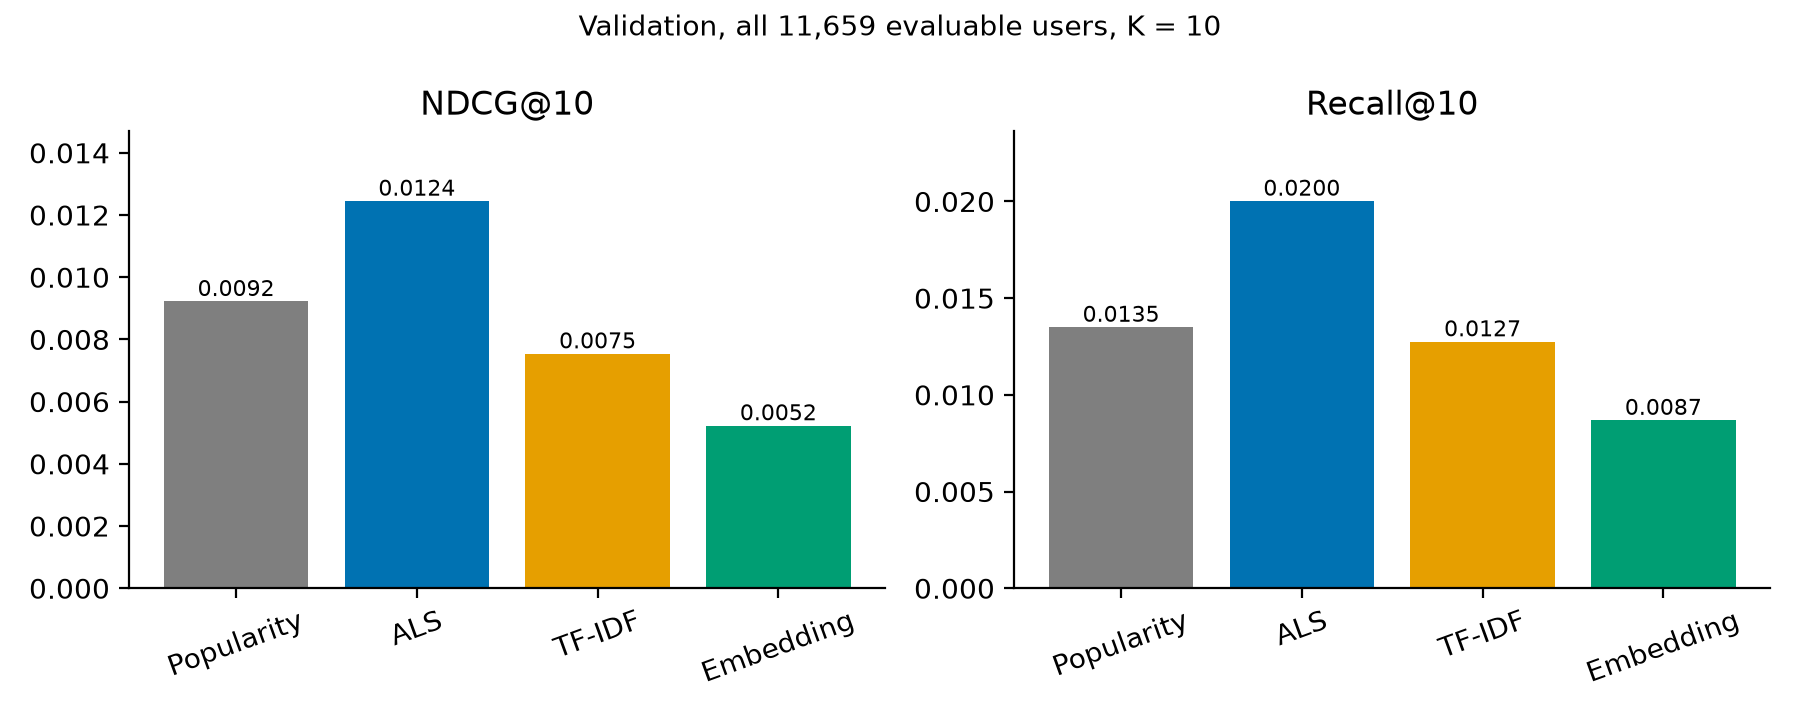
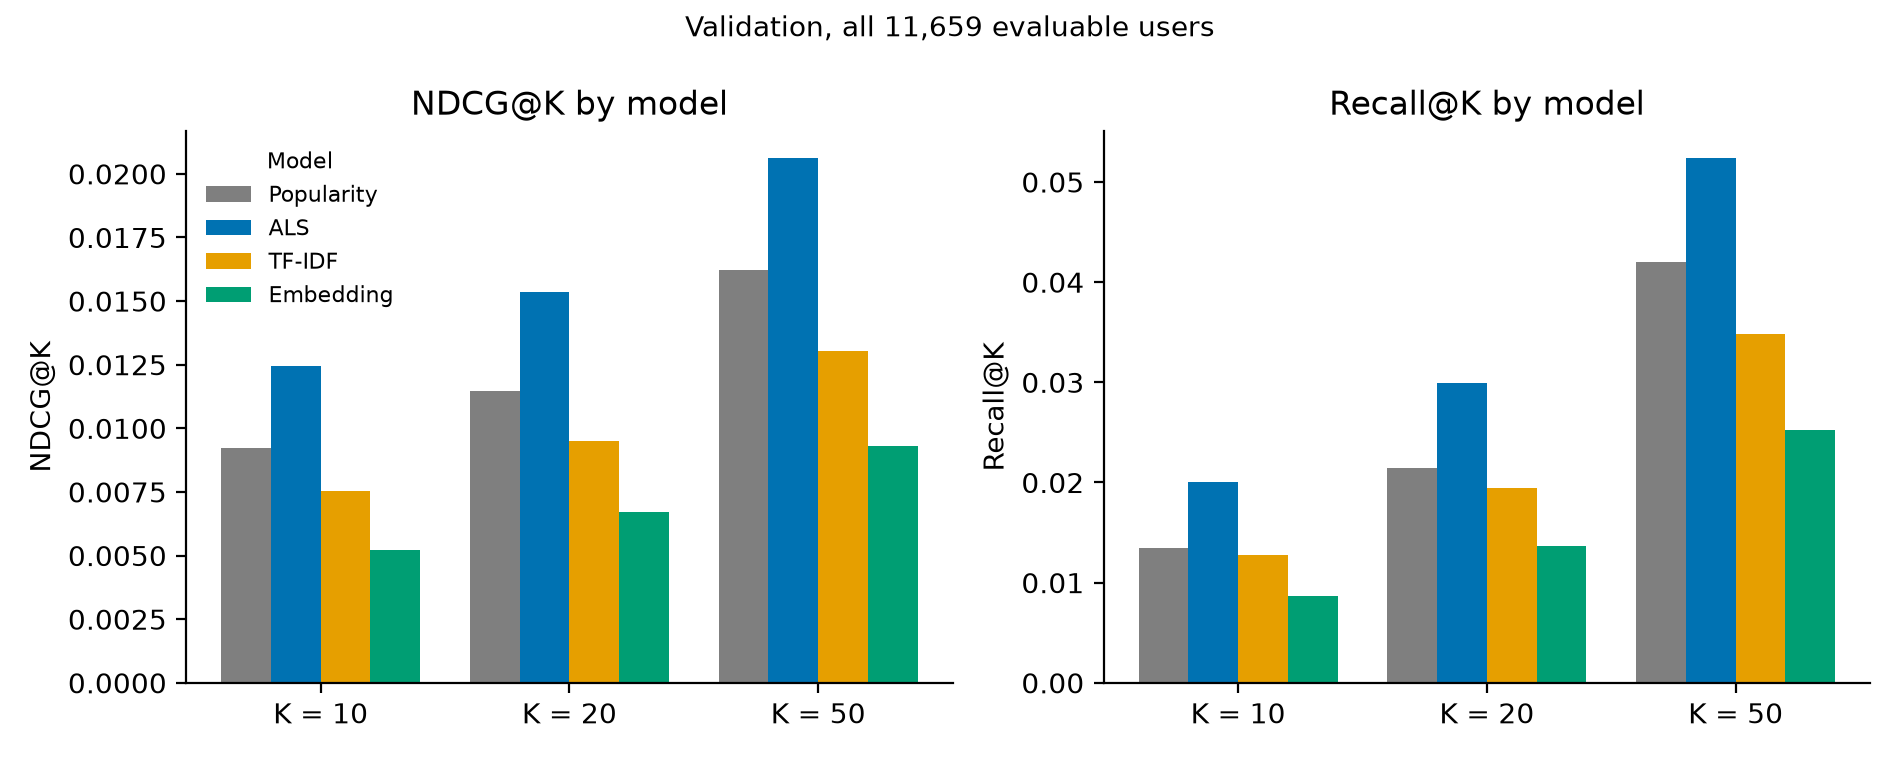
Add Precision@K, baseline-vs-track table and clearer figures (W11 instructions)
Grouped NDCG@K/Recall@K bars, axis labels and titles on all figures, a model x metric
table for K=10/20/50 with Precision@K, and absolute/relative differences versus baselines.

diff --git a/scripts/make_figures.py b/scripts/make_figures.py
@@ -100,22 +100,7 @@ def main():
         allrows.append([e, r["model"], o["Recall@10"], o["NDCG@10"], o.get("HitRate@10", ""), o.get("MRR@10", "")])
     write_csv("all_configs_k10", ["Config", "Model", "Recall@10", "NDCG@10", "HitRate@10", "MRR@10"], allrows)
 
-    # ---- Figure 1: model comparison at K = 10 ----
-    fig, axes = plt.subplots(1, 2, figsize=(9, 3.6))
-    for ax, (idx, name) in zip(axes, [(3, "NDCG@10"), (2, "Recall@10")]):
-        vals = [r[idx] for r in rows]
-        bars = ax.bar([r[0] for r in rows], vals, color=[COLOR[r[0]] for r in rows])
-        for b, v in zip(bars, vals):
-            ax.text(b.get_x() + b.get_width() / 2, v, f"{v:.4f}", ha="center", va="bottom", fontsize=8)
-        ax.set_title(name)
-        ax.set_ylim(0, max(vals) * 1.18)
-        ax.tick_params(axis="x", rotation=20)
-    fig.suptitle(f"Validation, all {n_users:,} evaluable users, K = 10", fontsize=10)
-    fig.tight_layout()
-    fig.savefig(FIG / "fig1_model_comparison.png", dpi=200)
-    plt.close(fig)
-
-    # ---- Figure 2: effect of K (needs results/k_sweep) ----
+    # ---- Figure 1: grouped bars of NDCG@K and Recall@K per model (K = 10, 20, 50) ----
     ks = {}
     sweep = RES / "k_sweep"
     for e in SELECTED:
@@ -124,7 +109,27 @@ def main():
             hits = sorted(sweep.glob(f"{e}-K{k}_*_overall.json"))
             if hits:
                 ks[e][k] = read_json(hits[-1])
-    if all(len(v) == 3 for v in ks.values()):
+    have_k = all(len(v) == 3 for v in ks.values())
+    if have_k:
+        fig, axes = plt.subplots(1, 2, figsize=(9.5, 3.8))
+        w = 0.2
+        for ax, metric in zip(axes, ["NDCG", "Recall"]):
+            for i, e in enumerate(SELECTED):
+                xs = [j + (i - 1.5) * w for j in range(3)]
+                vals = [ks[e][k][f"{metric}@{k}"] for k in (10, 20, 50)]
+                ax.bar(xs, vals, w, color=COLOR[LABEL[e]], label=LABEL[e])
+            ax.set_xticks(range(3))
+            ax.set_xticklabels(["K = 10", "K = 20", "K = 50"])
+            ax.set_ylabel(f"{metric}@K")
+            ax.set_title(f"{metric}@K by model")
+        axes[0].legend(frameon=False, fontsize=8, title="Model", title_fontsize=8)
+        fig.suptitle(f"Validation, all {n_users:,} evaluable users", fontsize=10)
+        fig.tight_layout()
+        fig.savefig(FIG / "fig1_model_comparison.png", dpi=200)
+        plt.close(fig)
+
+    # ---- Figure 2: effect of K (needs results/k_sweep) ----
+    if have_k:
         krows = []
         fig, axes = plt.subplots(1, 2, figsize=(9, 3.6))
         for ax, metric in zip(axes, ["NDCG", "Recall"]):
@@ -133,8 +138,10 @@ def main():
                         marker="o", color=COLOR[LABEL[e]], label=LABEL[e])
             ax.set_xticks([10, 20, 50])
             ax.set_xlabel("K")
-            ax.set_title(f"{metric}@K")
-        axes[0].legend(frameon=False, fontsize=8)
+            ax.set_ylabel(f"{metric}@K")
+            ax.set_title(f"{metric}@K vs K")
+        axes[0].legend(frameon=False, fontsize=8, title="Model", title_fontsize=8, loc="lower right")
+        fig.suptitle("Effect of K on the selected models (validation)", fontsize=10)
         fig.tight_layout()
         fig.savefig(FIG / "fig2_effect_of_k.png", dpi=200)
         plt.close(fig)
@@ -144,6 +151,27 @@ def main():
         write_csv("effect_of_k", kh, krows)
         write_tex("effect_of_k", kh, krows,
                   "Effect of K on the selected models (all evaluable users, validation).", "tab:effect-k")
+        # Embedding (track model) versus each baseline: absolute and relative differences
+        cmp_rows = []
+        for base in ("E1", "E2-07", "E3-B"):
+            for k in (10, 20, 50):
+                row = [f"Embedding vs {LABEL[base]}", k]
+                for m in ("NDCG", "Recall"):
+                    a_, b_ = ks["E4-B"][k][f"{m}@{k}"], ks[base][k][f"{m}@{k}"]
+                    row += [a_ - b_, (a_ / b_ - 1) * 100]
+                cmp_rows.append(row)
+        write_csv("baseline_vs_track", ["Comparison (track minus baseline)", "K", "dNDCG", "dNDCG_%", "dRecall", "dRecall_%"], cmp_rows)
+        # Main table: model x metric for K = 10/20/50 incl. Precision@K when available
+        prec_path = TAB / "precision_at_k.csv"
+        prec = {r["Model"]: r for r in csv.DictReader(open(prec_path))} if prec_path.exists() else {}
+        main_rows = []
+        for e in SELECTED:
+            row = [LABEL[e]] + [ks[e][k][f"NDCG@{k}"] for k in (10, 20, 50)] + [ks[e][k][f"Recall@{k}"] for k in (10, 20, 50)]
+            if prec:
+                row += [float(prec[LABEL[e]][f"Precision@{k}"]) for k in (10, 20, 50)]
+            main_rows.append(row)
+        mh = ["Model", "NDCG@10", "NDCG@20", "NDCG@50", "Recall@10", "Recall@20", "Recall@50"] + (["Precision@10", "Precision@20", "Precision@50"] if prec else [])
+        write_csv("main_results_all_k", mh, main_rows)
     else:
         print("K sweep incomplete: skipping fig2_effect_of_k.png (run scripts/run_k_sweep.sh)")
 
@@ -159,7 +187,8 @@ def main():
     ax.set_xticklabels(["low (1-4)", "medium (5-9)", "high (>=10)"])
     ax.set_xlabel("training interactions per user")
     ax.set_ylabel("NDCG@10")
-    ax.legend(frameon=False, fontsize=8)
+    ax.set_title("NDCG@10 by user activity group (validation)", fontsize=10)
+    ax.legend(frameon=False, fontsize=8, title="Model", title_fontsize=8)
     fig.tight_layout()
     fig.savefig(FIG / "fig3_activity_groups.png", dpi=200)
     plt.close(fig)

diff --git a/docs/w11_results_section_en.tex b/docs/w11_results_section_en.tex
@@ -40,7 +40,7 @@ with a paired bootstrap over users (1{,}000 resamples, seed 42, 95\% CI).
 \subsection{Comparison with the baselines}
 Table~\ref{tab:main} and Figure~\ref{fig:models} compare the selected configurations at $K=10$.
 ALS is the strongest model, followed by Popularity, TF-IDF and the embedding model. The order is
-the same for NDCG, Recall, HitRate and MRR, and for $K=10, 20, 50$ (Table~\ref{tab:k},
+the same for NDCG, Recall, HitRate and MRR, and for $K=10, 20, 50$ (Tables~\ref{tab:k} and~\ref{tab:track},
 Figure~\ref{fig:k}). ALS improves NDCG@10 over Popularity by 35\% and Recall@10 by 48\%;
 TF-IDF is 18\% (NDCG) and 6\% (Recall) below Popularity, and the embedding model is a further
 31\% (NDCG) and 32\% (Recall) below TF-IDF. All models are 20--46 times better than random
@@ -70,18 +70,39 @@ Embedding & E4-B & 0.0087 & 0.0052 & 0.0149 & 0.0058 & 0.6221 \\
 \label{fig:models}
 \end{figure}
 
-\begin{table}[t]
-\caption{Effect of $K$ on the selected models (R = Recall, N = NDCG).}
+\begin{table*}[t]
+\caption{Main results on all 11{,}659 validation users for $K\in\{10,20,50\}$ (N = NDCG, R = Recall, P = Precision; Precision@K is derived from per-user Recall@K and the number of relevant items).}
 \label{tab:k}
 \small
-\begin{tabular}{lcccccc}
+\begin{tabular}{lccccccccc}
 \toprule
-Model & R@10 & N@10 & R@20 & N@20 & R@50 & N@50 \\
+Model & N@10 & N@20 & N@50 & R@10 & R@20 & R@50 & P@10 & P@20 & P@50 \\
 \midrule
-Popularity & 0.0135 & 0.0092 & 0.0215 & 0.0115 & 0.0420 & 0.0162 \\
-ALS & 0.0200 & 0.0124 & 0.0299 & 0.0154 & 0.0524 & 0.0206 \\
-TF-IDF & 0.0127 & 0.0075 & 0.0195 & 0.0095 & 0.0348 & 0.0131 \\
-Embedding & 0.0087 & 0.0052 & 0.0137 & 0.0067 & 0.0252 & 0.0093 \\
+Popularity & 0.0092 & 0.0115 & 0.0162 & 0.0135 & 0.0215 & 0.0420 & 0.0032 & 0.0024 & 0.0018 \\
+ALS & 0.0124 & 0.0154 & 0.0206 & 0.0200 & 0.0299 & 0.0524 & 0.0041 & 0.0031 & 0.0022 \\
+TF-IDF & 0.0075 & 0.0095 & 0.0131 & 0.0127 & 0.0195 & 0.0348 & 0.0022 & 0.0018 & 0.0013 \\
+Embedding & 0.0052 & 0.0067 & 0.0093 & 0.0087 & 0.0137 & 0.0252 & 0.0016 & 0.0013 & 0.0009 \\
+\bottomrule
+\end{tabular}
+\end{table*}
+
+\begin{table}[t]
+\caption{Embedding model (track) versus each baseline: absolute difference and relative change in NDCG@K and Recall@K.}
+\label{tab:track}
+\small
+\begin{tabular}{lcll}
+\toprule
+Comparison & $K$ & $\Delta$NDCG@K & $\Delta$Recall@K \\
+\midrule
+Embedding $-$ Popularity & 10 & $-$0.0040 ($-$43.3\%) & $-$0.0048 ($-$35.7\%) \\
+Embedding $-$ Popularity & 20 & $-$0.0048 ($-$41.6\%) & $-$0.0078 ($-$36.4\%) \\
+Embedding $-$ Popularity & 50 & $-$0.0069 ($-$42.7\%) & $-$0.0168 ($-$40.0\%) \\
+Embedding $-$ ALS & 10 & $-$0.0072 ($-$58.0\%) & $-$0.0113 ($-$56.6\%) \\
+Embedding $-$ ALS & 20 & $-$0.0087 ($-$56.4\%) & $-$0.0162 ($-$54.3\%) \\
+Embedding $-$ ALS & 50 & $-$0.0113 ($-$54.9\%) & $-$0.0272 ($-$51.9\%) \\
+Embedding $-$ TF-IDF & 10 & $-$0.0023 ($-$30.7\%) & $-$0.0041 ($-$31.9\%) \\
+Embedding $-$ TF-IDF & 20 & $-$0.0028 ($-$29.4\%) & $-$0.0058 ($-$29.7\%) \\
+Embedding $-$ TF-IDF & 50 & $-$0.0038 ($-$28.7\%) & $-$0.0096 ($-$27.6\%) \\
 \bottomrule
 \end{tabular}
 \end{table}

diff --git a/scripts/precision_at_k.py b/scripts/precision_at_k.py
@@ -1,0 +1,44 @@
+"""W11: Precision@K (K = 10, 20, 50) for the four selected models.
+
+Precision@K is derived from the saved per-user results: for each user,
+Precision@K = Recall@K * (number of relevant items) / K, because src/metrics.py
+computes Recall@K = hits / number of relevant items. The number of relevant
+items per user comes from the warm validation file (rating >= 4).
+
+Usage:  python scripts/precision_at_k.py --data_dir DATA_DIR [--results_dir results]
+Writes results/tables/precision_at_k.csv
+"""
+import argparse
+from pathlib import Path
+
+import pandas as pd
+
+p = argparse.ArgumentParser()
+p.add_argument("--data_dir", required=True)
+p.add_argument("--results_dir", default="results")
+a = p.parse_args()
+res = Path(a.results_dir)
+
+val = pd.read_csv(Path(a.data_dir) / "SUPPORTING_DATA" / "interactions_validation_warm.csv")
+n_rel = val[val["rating"] >= 4].groupby("user_id")["item_id"].nunique()
+
+RUNS = {  # (model, K) -> per-user file
+    ("Popularity", 10): "E1_popularity_subsetall", ("ALS", 10): "E2-07_als_subsetall",
+    ("TF-IDF", 10): "E3-B_tfidf_subsetall", ("Embedding", 10): "E4-B_embedding_subsetall",
+}
+for k in (20, 50):
+    RUNS.update({("Popularity", k): f"k_sweep/E1-K{k}_popularity_subsetall", ("ALS", k): f"k_sweep/E2-07-K{k}_als_subsetall",
+                 ("TF-IDF", k): f"k_sweep/E3-B-K{k}_tfidf_subsetall", ("Embedding", k): f"k_sweep/E4-B-K{k}_embedding_subsetall"})
+rows = []
+for model in ("Popularity", "ALS", "TF-IDF", "Embedding"):
+    row = {"Model": model}
+    for k in (10, 20, 50):
+        pu = pd.read_csv(res / f"{RUNS[(model, k)]}_per_user.csv").set_index("user_id")
+        prec = pu[f"Recall@{k}"] * n_rel.reindex(pu.index) / k
+        assert prec.notna().all() and (prec <= 1 + 1e-9).all()
+        row[f"Precision@{k}"] = float(prec.mean())
+    rows.append(row)
+out = pd.DataFrame(rows)
+Path(res / "tables").mkdir(exist_ok=True)
+out.to_csv(res / "tables" / "precision_at_k.csv", index=False)
+print(out.round(5).to_string(index=False))
